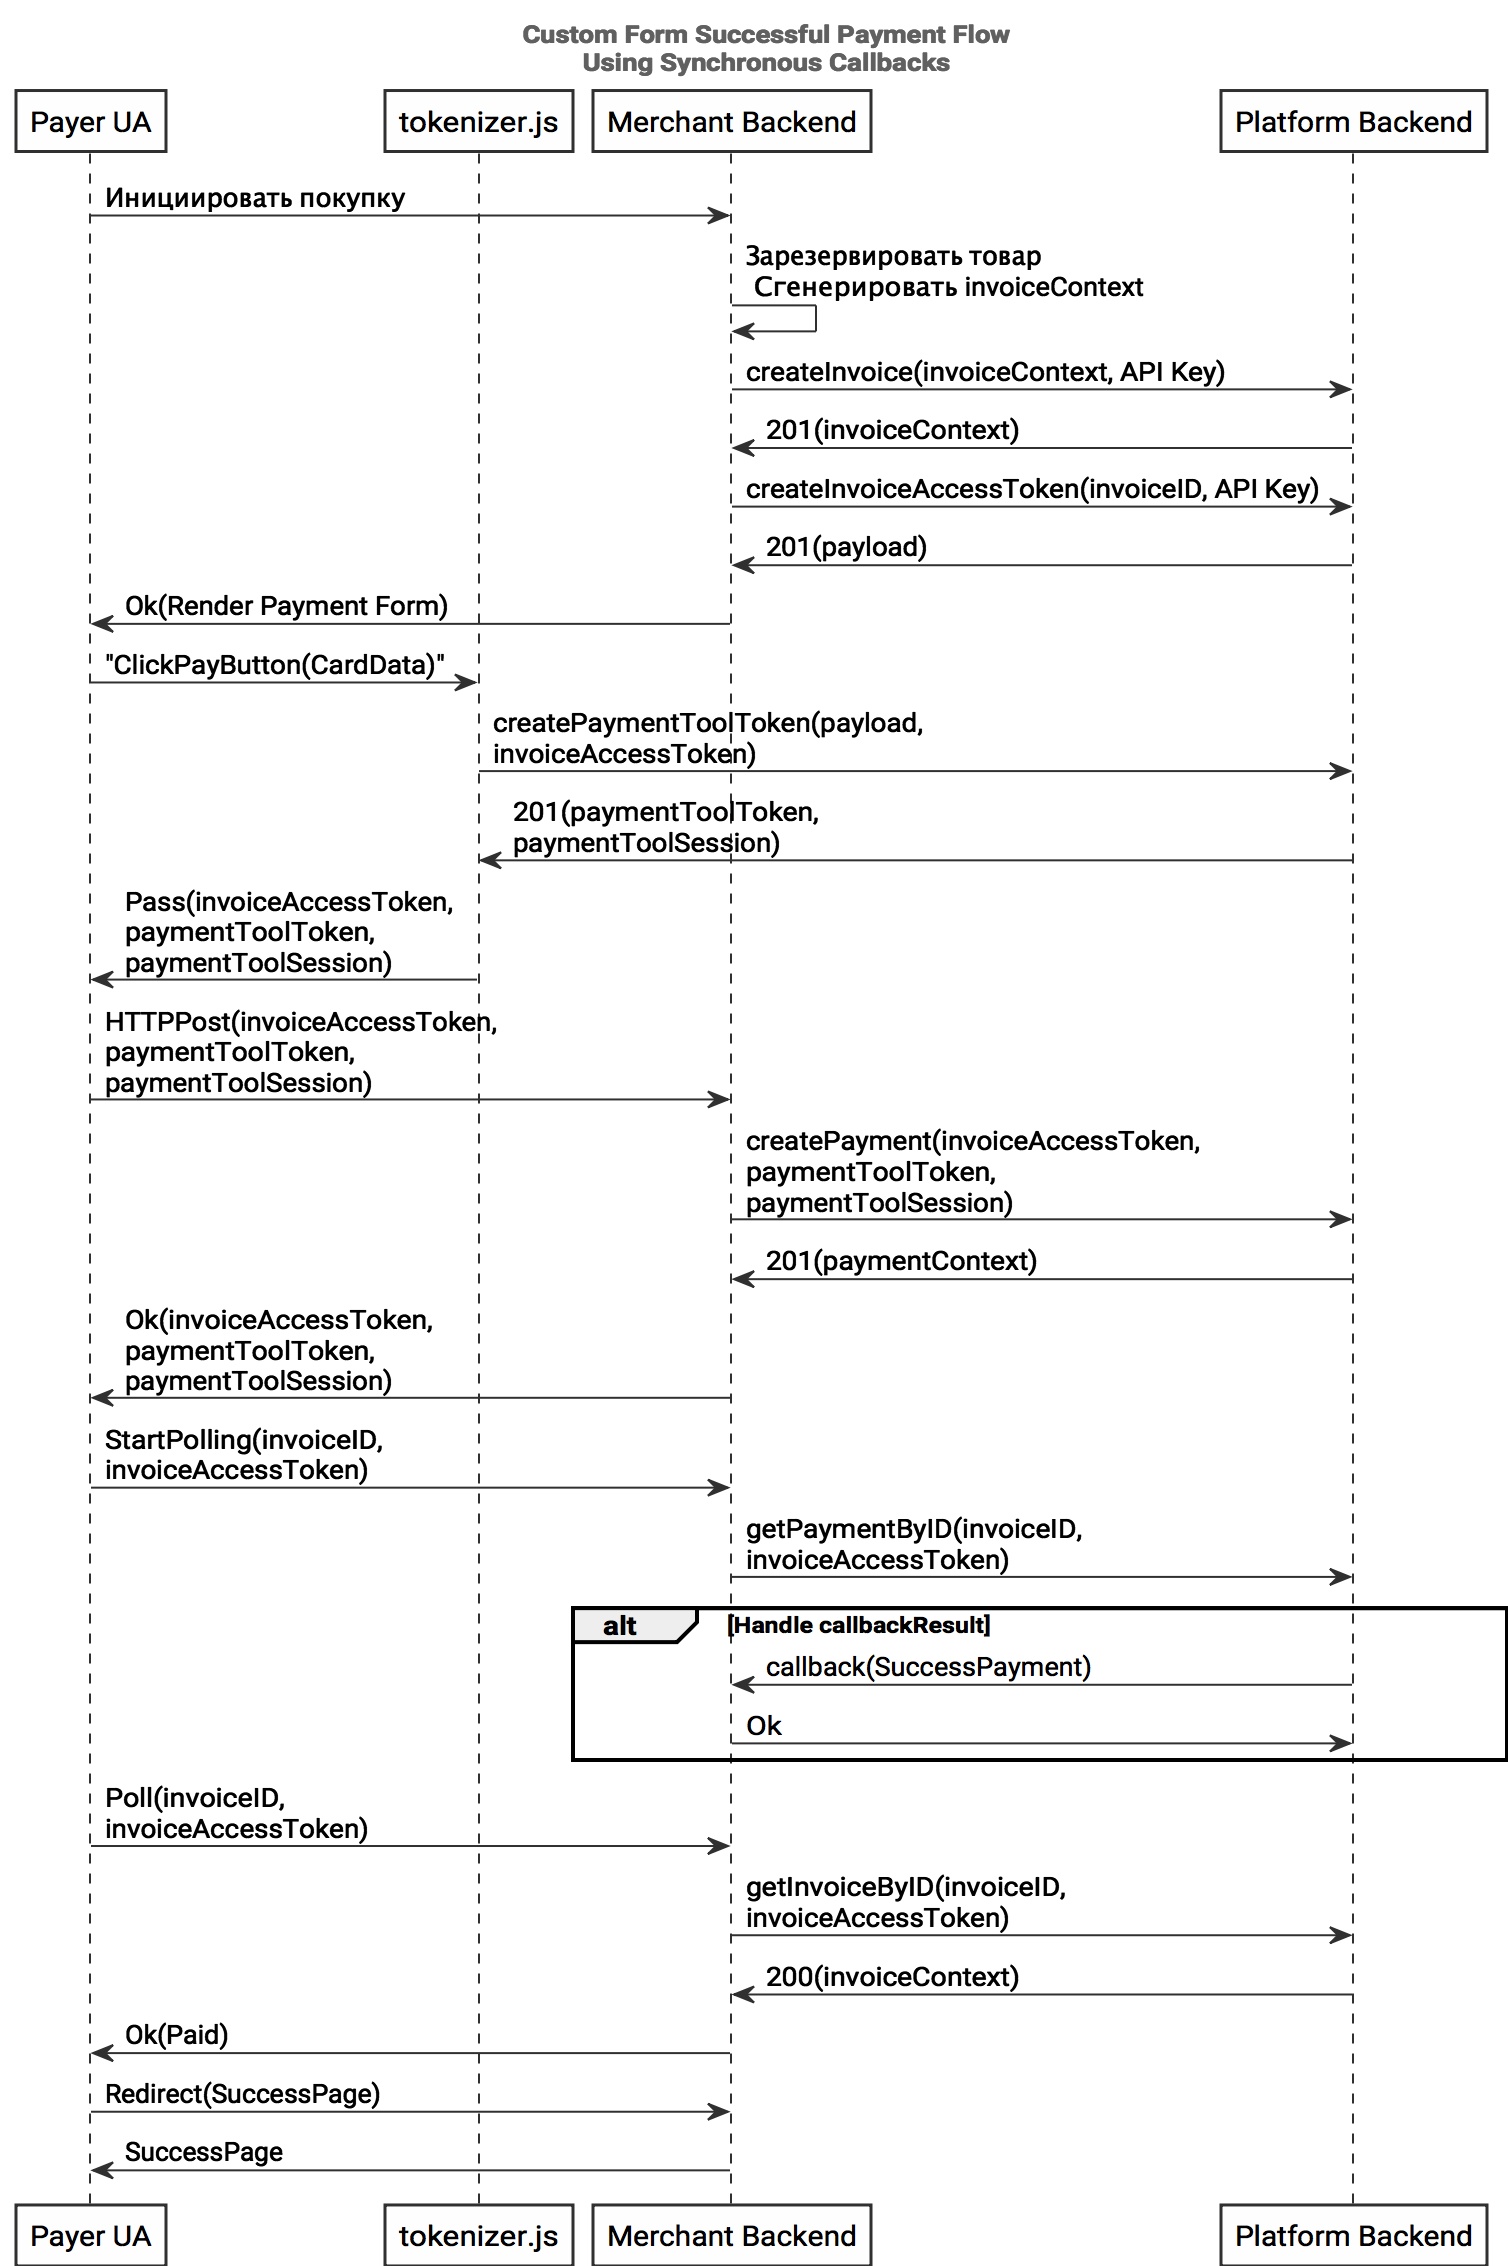
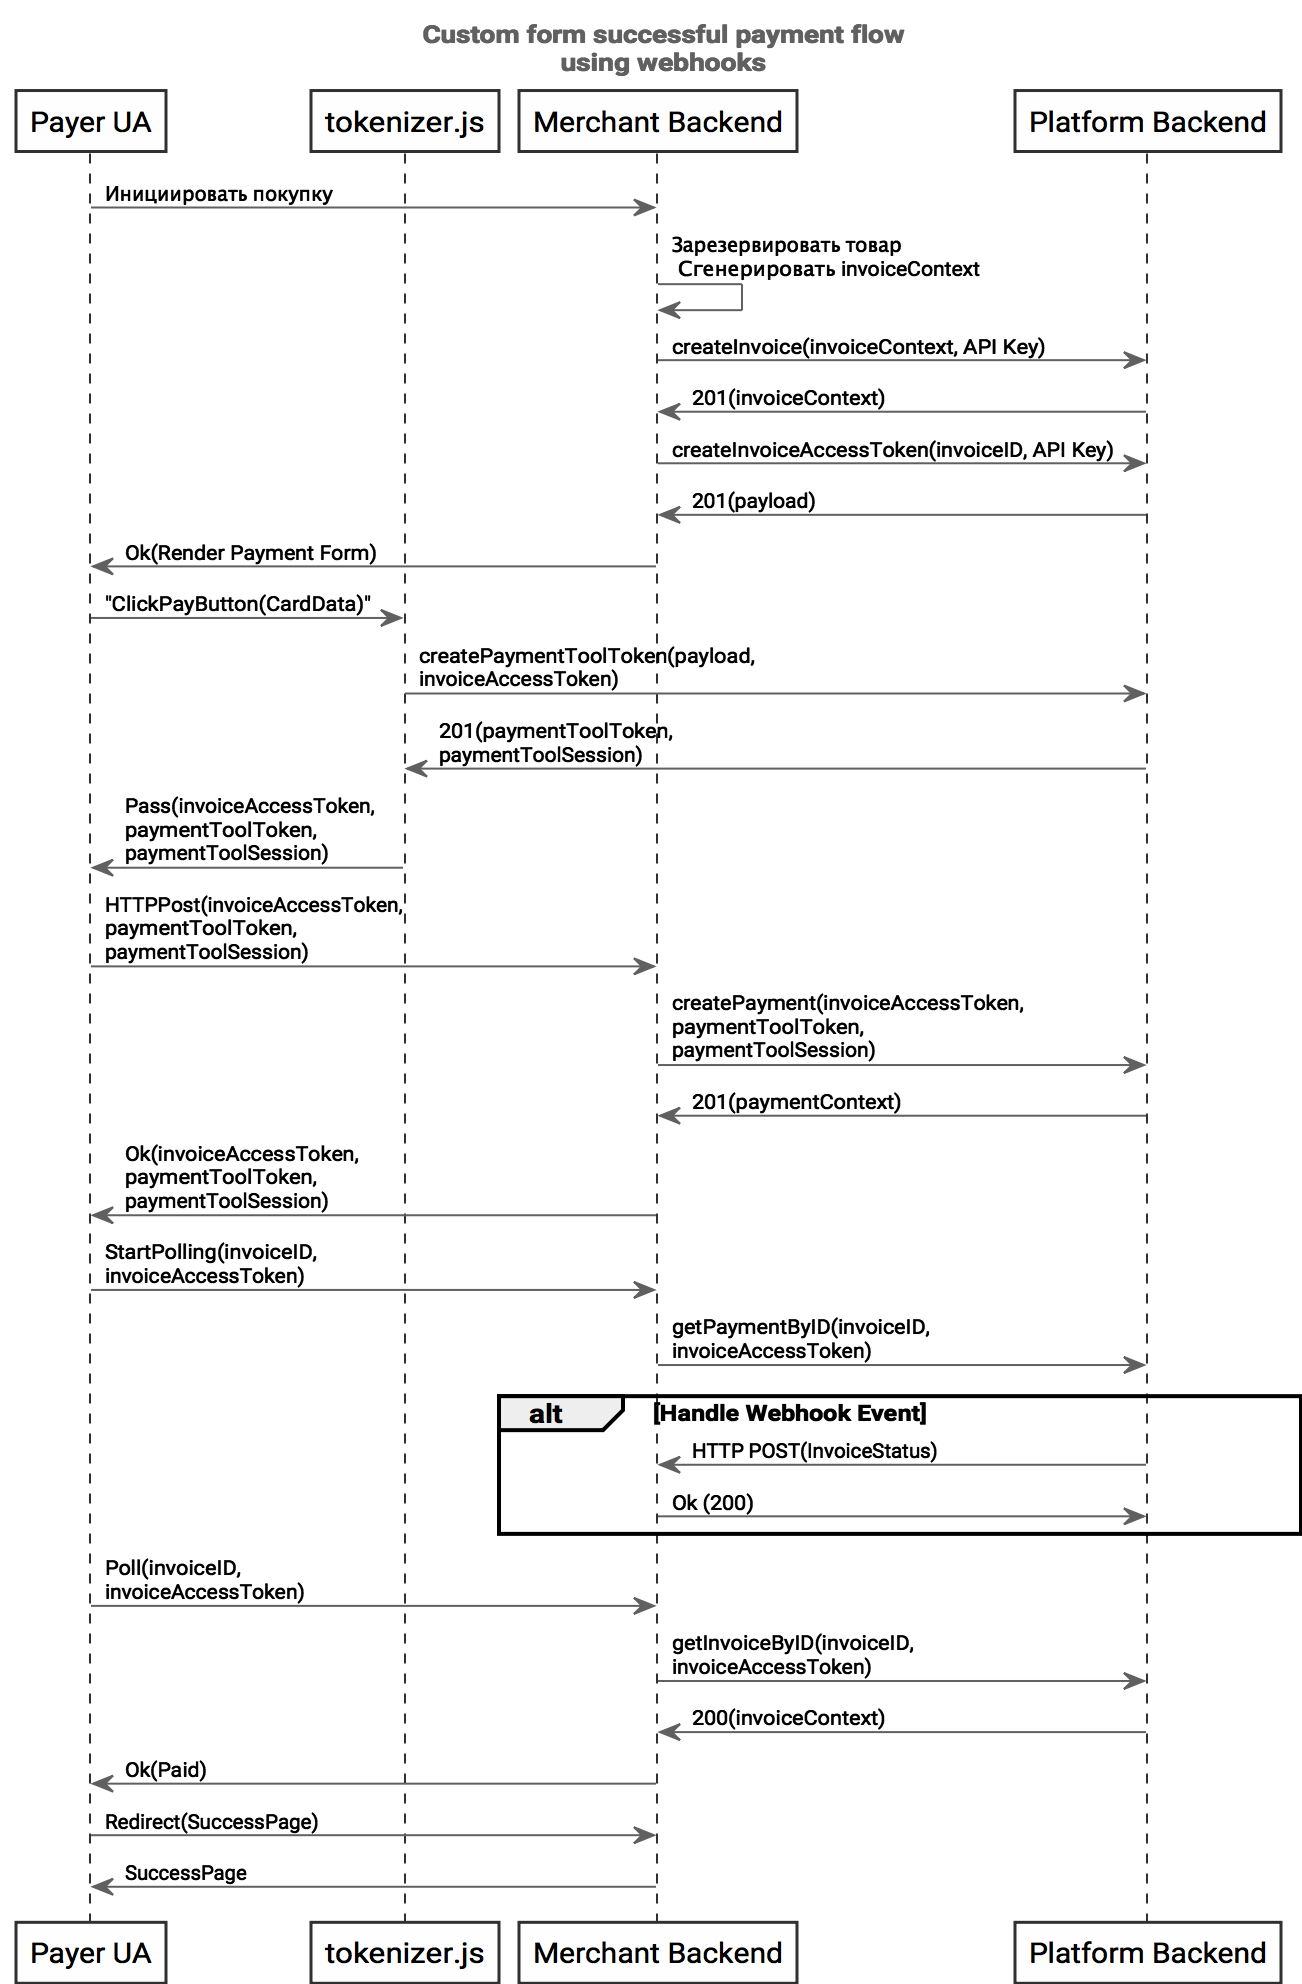
moved from callbacks to webhooks, +comma fix

diff --git a/content/integrations/overview.md b/content/integrations/overview.md
@@ -27,28 +27,26 @@
 Платформа использует инвойс, как отражение ваших обязательств в виде предлагаемых товаров или услуг, некий контейнер для запуска и обработки платежей. Перед встраиванием платежной формы в браузер плательщика, или попытками списать средства с его платежного инструмента на вашей серверной части, необходимо создать в платформе инвойс и получить его идентификатор.
 
 !!! note "Платёж (Payment)"
-    Процесс в рамках инвойса, в ходе которого средства плательщика поступают в вашу пользу в виде финансовых обязательств платформы. После того, как инвойс полностью оплачен, вы должны приступить к исполнению своих обязательств перед плательщиком, например направить товар в службу доставки или оказать обещанную услугу.
+    Процесс в рамках инвойса, в ходе которого средства плательщика поступают в вашу пользу в виде финансовых обязательств платформы. После того, как инвойс полностью оплачен, вы должны приступить к исполнению своих обязательств перед плательщиком, например, направить товар в службу доставки или оказать обещанную услугу.
 
-В магазине, в рамках которого вы создаёте инвойсы, на ваше усмотрение вы можете включить доставку callback-уведомлений на указанный вами URL вашей серверной части. Платформа отправляет подобные уведомления, чтобы как можно скорее уведомить о важных изменениях инвойса, например, по факту полной его оплаты.
+В магазине, в рамках которого вы создаёте инвойсы, на ваше усмотрение вы можете включить доставку Webhook`ов, или асинхронных callback-уведомлений на указанный вами URL вашей серверной части. Платформа может отправлять подобные уведомления, чтобы как можно скорее уведомить о важных изменениях инвойса, например, по факту полной его оплаты.
 
 ## Прием платежей
 
 В общем случае последовательность действий с платформой выглядит так:
 
-- С помощью вызова нашего API вы создаете в платформе инвойс, который используется для дальнейшего списания средств.
+- С помощью вызова метода createInvoice() нашего API вы создаете в платформе инвойс, который используется для дальнейшего списания средств.
+- С помощью вызова метода createInvoiceAccessToken() вы получаете ключ доступа к инвойсу, который можно публиковать в HTML, отдаваемый UA.
 - Вы встраиваете платежную форму в браузер плательщика, а именно:
     - открываете iframe с нашей платежной формой и передаете в него параметры, или
     - верстаете платежную форму самостоятельно и вызываете ее с ваших серверов.
 - После ввода плательщиком данных банковской карты на платежной форме наша библиотека tokenizer.js отправляет полученные данные на нашу серверную часть, и получает в ответ токен платежного средства.
 - Платёжная форма передает полученный токен на вашу серверную часть.
-- С вашей серверной стороны вы инициируете запуск платежа, после чего начинаете опрашивать изменения состояния инвойса или ожидает callback-уведомлений.
+- С вашей серверной стороны вы инициируете запуск платежа, после чего начинаете опрашивать изменения состояния инвойса или ожидать уведомлений на настроенные Webhook URL.
 
 ### Диаграмма последовательности взаимодействия
 
-В качестве примера проведения успешной оплаты с использованием callback-уведомлений можно рассмотреть следующую диаграмму:
-
-!!! note "Информация"
-    Callback-уведомления являются синхронными, то есть платформа посчитает инвойс оплаченным только после того, как успешно доставит соответствующее уведомление до вашей серверной части.
+В качестве примера проведения успешной оплаты с использованием Webhook`ов можно рассмотреть следующую диаграмму:
 
   ![/wsd/custom_form_w_cb.png](/wsd/custom_form_w_cb.png)
 
@@ -66,9 +64,10 @@
 
 Данный ключ использует платежная форма Checkout, и библиотека токенизации платежного инструмента плательщика Tokenizer. Вы можете публиковать этот ключ.
 
-## Авторизация callback-уведомлений
+## Webhook`и и авторизация полученных через них данных
 
-В обратной ситуации, в тех случаях, когда ваша серверная часть получает callback-уведомления на указанный вами URL, вам необходимо убедиться, что уведомление действительно было отправлено платформой. Для решения этой задачи в каждом магазине указан публичный ключ (_Callback Key_), служащий для проверки подписи, передаваемой с каждым callback-уведомлением.
+В обратной ситуации, в тех случаях, когда ваша серверная часть получает уведомления на указанный вами URL, вам необходимо убедиться, что уведомление действительно было отправлено платформой. Для решения этой задачи в платформа подтверждает подлинность присланной информации подписывая сообщения приватным ключом RSA. Описание спецификации [Webhook Events API](https://rbkmoney.github.io/webhooks-events-api) находится [тут](https://rbkmoney.github.io/webhooks-events-api).
+Самими Webhook`ами можно управлять как через личный кабинет, так и с помощью нашего публичного [API](https://rbkmoney.github.io/api/#Webhooks).
 
 ## Сценарии интеграции
 
